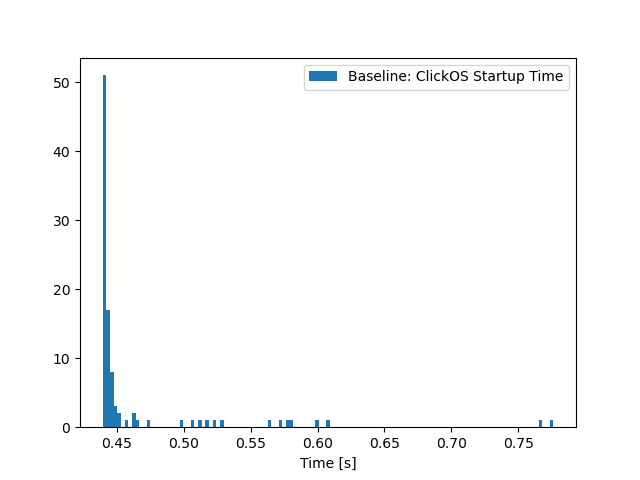
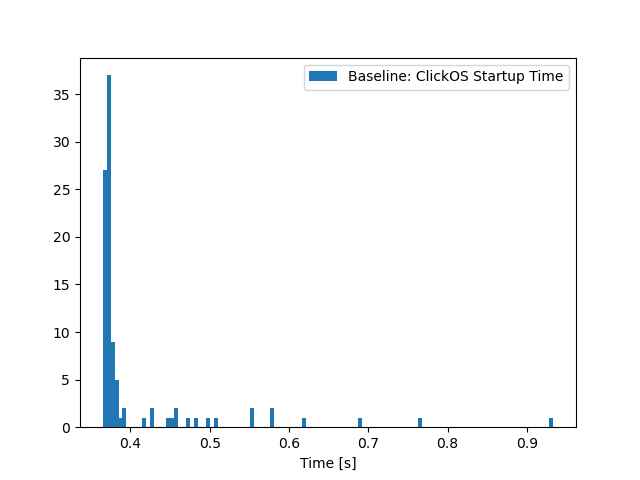
Update benchmark with new Unikraft configuration settings

diff --git a/benchmark/src/main.rs b/benchmark/src/main.rs
@@ -40,9 +40,9 @@ fn start_clickos() -> anyhow::Result<Child> {
             "qemu-system-x86_64",
             "-netdev", "bridge,id=en0,br=clicknet",
             "-device", "virtio-net-pci,netdev=en0",
-            "-append", &format!(r#""netdev.ipv4_addr={CLICKOS_IPV4_ADDR} netdev.ipv4_gw_addr=172.44.0.1 netdev.ipv4_subnet_mask=255.255.255.0 --""#),
+            "-append", &format!(r#""netdev.ip={CLICKOS_IPV4_ADDR}/24:172.44.0.1 vfs.fstab=[\"initrd0:/:extract::ramfs=1:\"] --""#),
             "-kernel", "../.unikraft/build/click_qemu-x86_64",
-            "-initrd", "../.unikraft/build/initramfs-x86_64.cpio",
+            "-initrd", "minimal.click",
             "-nographic"
         ])
         .stdout(Stdio::piped())

diff --git a/benchmark/results/MEASUREMENTS.md b/benchmark/results/MEASUREMENTS.md
@@ -11,13 +11,12 @@ Click Configuration:
 ```
 FromDevice
   -> Print('Received packet from device')
-  -> IPPrint
-  -> ToDevice;
+  -> Discard;
 ```
 
 Results:
 ```
 Benchmark 1: ./target/release/click-benchmark
-  Time (mean ± σ):     462.6 ms ±  57.7 ms    [User: 2.4 ms, System: 10.8 ms]
-  Range (min … max):   439.1 ms … 776.4 ms    100 runs
+  Time (mean ± σ):     404.9 ms ±  88.1 ms    [User: 0.8 ms, System: 3.3 ms]
+  Range (min … max):   364.8 ms … 933.4 ms    100 runs
 ```
